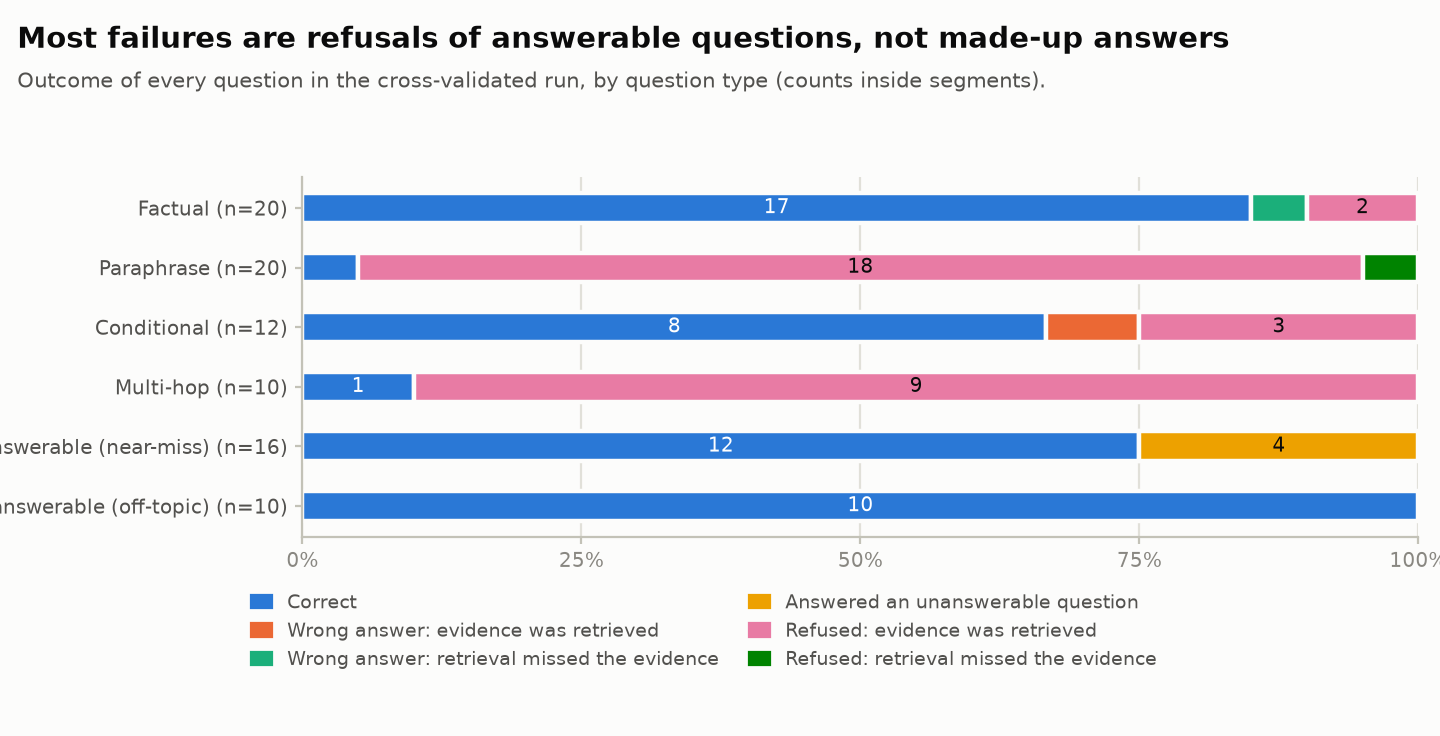
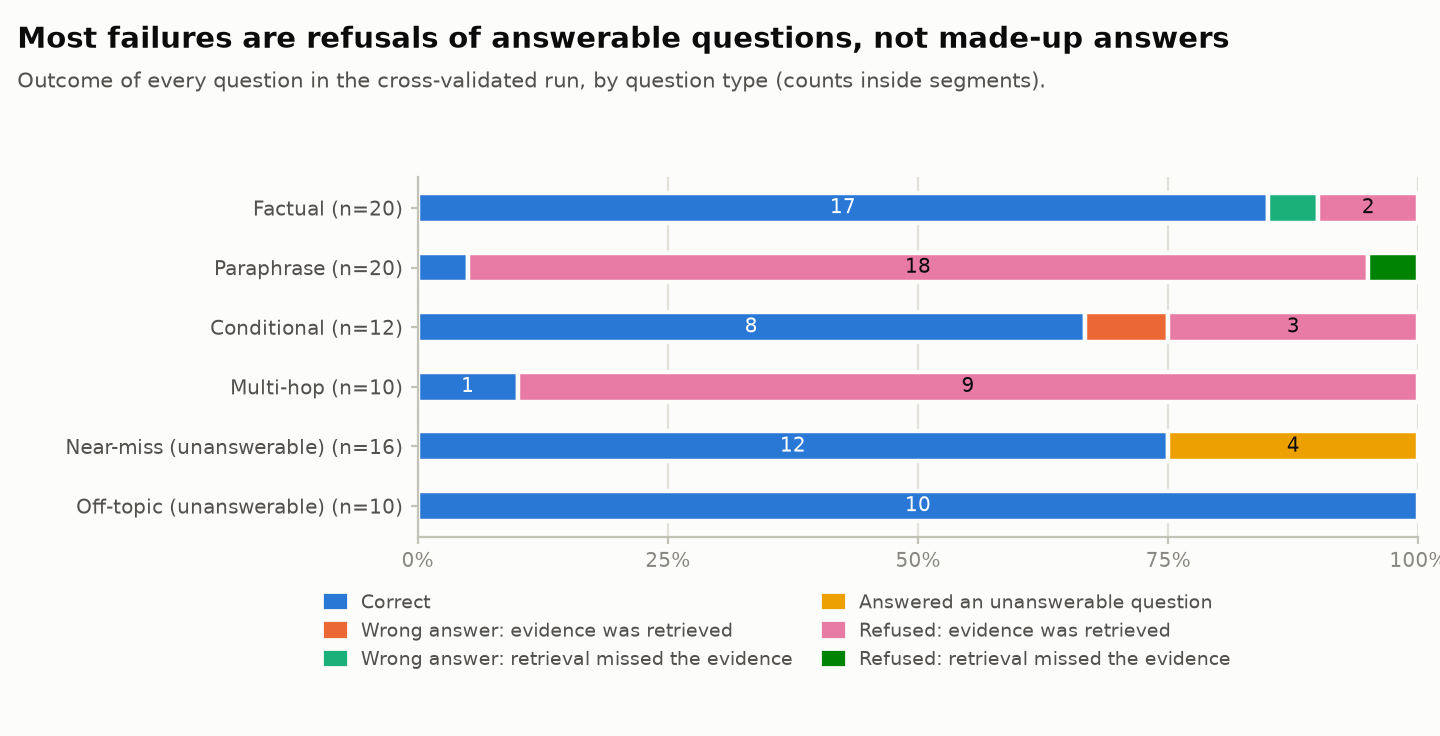
Fix app retriever selection, add screenshots, fill README results
- App: the tuned retriever was missing from the dropdown, so it silently fell back to
  bm25 even when GloVe was available. Offer the evaluated retriever first, and warn when
  it is unavailable. Drop deprecated use_container_width arguments.
- App examples now show a realistic mix: answered, a paraphrase the offline generator
  cannot handle, and correct refusals.
- Re-render report and figures (fixes clipped labels, missing legend, data-driven titles).
- README: results and findings from the cross-validated study; screenshots from a real browser.
- Tests: 108 passing, including the retriever-choice logic and the missing-GloVe warning.

Claude-Session: https://claude.ai/code/session_01NxVMQHfuk1bMqepFosoKAy

diff --git a/RAG_Assistant/app.py b/RAG_Assistant/app.py
@@ -13,16 +13,18 @@ from rag_assistant.embeddings import glove_available
 from rag_assistant.evaluation.support import score_answer
 from rag_assistant.ingest import load_corpus
 from rag_assistant.llm import LLMError, detect_provider, make_llm
+from rag_assistant.retrievers import retriever_choices
 from rag_assistant.pipeline import load_best_config
 from rag_assistant.types import REFUSAL_TEXT
 
 load_env_file()
 st.set_page_config(page_title="Handbook Assistant", page_icon="📘", layout="wide")
 
+# Three the offline generator answers, one paraphrase it cannot (try LLM mode), two it should refuse.
 EXAMPLES = [
     "What is the late payment fee?",
-    "How do I get a refund if I drop a class in week 4?",
-    "Until which week can a graduate student withdraw with a W?",
+    "How much is the housing deposit?",
+    "What is the tuition refund if I withdraw in week 4?",
     "How often must I change my campus network login secret?",
     "Does the Student Health Center offer dental care?",
     "Who won the 2022 FIFA World Cup?",
@@ -42,13 +44,6 @@ def get_pipeline(retriever: str, top_k: int, coverage: float, use_llm: bool) -> 
     return RAGPipeline(corpus(), cfg, make_llm() if use_llm else None)
 
 
-def retriever_options() -> list[str]:
-    opts = ["bm25", "tfidf", "hybrid:bm25+lsa"]
-    if glove_available():
-        opts += ["glove", "hybrid:bm25+glove"]
-    return opts
-
-
 best = load_best_config()
 provider = detect_provider()
 
@@ -62,8 +57,11 @@ with st.sidebar:
         use_llm = False
     elif use_llm:
         st.caption(f"Provider: {provider}")
-    opts = retriever_options()
-    retriever = st.selectbox("Retriever", opts, index=opts.index(best.retriever) if best.retriever in opts else 0)
+    if "glove" in best.retriever and not glove_available():
+        st.warning(f"The tuned retriever `{best.retriever}` needs GloVe vectors, so `bm25` is used instead and answers may differ. "
+                   "Run `python -m rag_assistant fetch-embeddings` to enable it.")
+    opts = retriever_choices(best.retriever, glove_available())
+    retriever = st.selectbox("Retriever", opts, index=0, help="The first option is the one the evaluation report measured.")
     top_k = st.slider("Passages retrieved (top-k)", 1, 10, best.top_k)
     coverage = st.slider("Abstention threshold", 0.0, 1.0, float(best.min_coverage), 0.05, disabled=use_llm,
                          help="Extractive generator only: the share of the question's key terms that must be found before it answers.")
@@ -78,9 +76,11 @@ tab_ask, tab_eval, tab_corpus = st.tabs(["Ask", "How well does it work?", "Corpu
 # ----------------------------------------------------------------------------------- ask
 with tab_ask:
     st.write("**Try an example**")
+    st.caption("The fourth example is worded differently from the handbook: the offline generator refuses it, an LLM should not. "
+               "The last two are unanswerable and should be refused.")
     cols = st.columns(3)
     for i, ex in enumerate(EXAMPLES):
-        if cols[i % 3].button(ex, key=f"ex{i}", use_container_width=True):
+        if cols[i % 3].button(ex, key=f"ex{i}"):
             st.session_state["question"] = ex
     with st.form("ask_form"):
         question = st.text_input("Your question", key="question", placeholder="e.g. How much is the housing deposit?")
@@ -128,7 +128,7 @@ with tab_ask:
             st.dataframe(pd.DataFrame([{
                 "rank": h.rank, "score": round(h.score, 4), "document": h.chunk.doc_title, "section": h.chunk.heading,
                 "cited": "✓" if h.chunk.chunk_id in ans.citations else "", "text": h.chunk.text} for h in ans.contexts]),
-                hide_index=True, use_container_width=True)
+                hide_index=True)
 
 # ----------------------------------------------------------------------------------- evaluation
 with tab_eval:
@@ -161,13 +161,13 @@ with tab_eval:
                               ("abstention_tradeoff.png", "The answer-versus-refuse trade-off"),
                               ("retrieval_by_type.png", "Retrieval quality by question type")):
             if (figs / name).exists():
-                st.image(str(figs / name), caption=caption, use_container_width=True)
+                st.image(str(figs / name), caption=caption)
         csv = REPORT_DIR / "per_question.csv"
         if csv.exists():
             df = pd.read_csv(csv)
             st.subheader("Every question")
             outcome = st.multiselect("Filter by outcome", sorted(df["outcome"].unique()))
-            st.dataframe(df[df["outcome"].isin(outcome)] if outcome else df, hide_index=True, use_container_width=True)
+            st.dataframe(df[df["outcome"].isin(outcome)] if outcome else df, hide_index=True)
         report = REPORT_DIR / "report.md"
         if report.exists():
             with st.expander("Full written report"):

diff --git a/RAG_Assistant/rag_assistant/evaluation/report.py b/RAG_Assistant/rag_assistant/evaluation/report.py
@@ -167,7 +167,7 @@ def fig_tradeoff(study: Study, path: Path) -> None:
     ax.set_ylabel("Share of questions", fontsize=9, color=MUTED)
     handles, labels = ax.get_legend_handles_labels()
     fig.legend(handles, labels, loc="lower center", ncol=2, frameon=False, fontsize=9, labelcolor=INK2, bbox_to_anchor=(0.44, 0.0))
-    _titles(fig, "Refusing more unanswerable questions means refusing more answerable ones",
+    _titles(fig, "Caution is paid for in correct answers",
             "Offline extractive generator, all questions, other settings fixed. There is no free lunch on this curve.")
     _save(fig, path)
 
@@ -307,7 +307,7 @@ def retrieval_sentence(study: Study) -> str:
     b = stat(best)
     return (f"On the {b[2]} paraphrased questions the best embedding hybrid (`{best}`) reaches MRR {b[0]:.2f} vs {base[0]:.2f} for BM25; "
             f"on the other {b[3]} answerable questions BM25 reaches {base[1]:.2f} vs {b[1]:.2f}. "
-            "The gaps are small relative to the sample size, but they point the same way: dense signals help when the words differ and add noise when they match.")
+            "The gaps are small relative to the sample size, but they are consistent with dense signals helping when the words differ and adding noise when they match.")
 
 
 def build_report(study: Study, sections: list[Section], items: list[EvalItem], out_dir: Path, llm_summary: str | None = None) -> Path:

diff --git a/RAG_Assistant/tests/test_retrievers.py b/RAG_Assistant/tests/test_retrievers.py
@@ -68,3 +68,14 @@ def test_dense_retriever_with_stub_embeddings(chunks):
 def test_build_retriever_rejects_unknown_names():
     with pytest.raises(ValueError):
         build_retriever("nonsense")
+
+
+def test_ui_retriever_choices_put_the_evaluated_retriever_first():
+    from rag_assistant.retrievers import retriever_choices
+    tuned = "hybrid:bm25+lsa+glove"
+    with_glove = retriever_choices(tuned, glove_ok=True)
+    assert with_glove[0] == tuned and len(set(with_glove)) == len(with_glove)
+    # without the vectors the tuned retriever is unavailable: fall back to bm25, never offer something unusable
+    no_glove = retriever_choices(tuned, glove_ok=False)
+    assert no_glove[0] == "bm25" and not any("glove" in o for o in no_glove)
+    assert retriever_choices("tfidf", glove_ok=False)[0] == "tfidf"

diff --git a/RAG_Assistant/rag_assistant/retrievers.py b/RAG_Assistant/rag_assistant/retrievers.py
@@ -194,3 +194,14 @@ def build_retriever(spec: str = "hybrid", add_heading: bool = True) -> Retriever
     if spec in table:
         return table[spec](add_heading=add_heading)
     raise ValueError(f"Unknown retriever {spec!r}; choose from {RETRIEVER_NAMES}")
+
+
+def retriever_choices(tuned: str, glove_ok: bool) -> list[str]:
+    """Retrievers a UI can offer. The tuned one (what the evaluation measured) comes first when it is usable."""
+    opts = ["bm25", "tfidf", "hybrid:bm25+lsa"]
+    if glove_ok:
+        opts += ["glove", "hybrid:bm25+glove", "hybrid:bm25+lsa+glove"]
+    if tuned in opts:
+        opts.remove(tuned)
+        opts.insert(0, tuned)
+    return opts

diff --git a/RAG_Assistant/tests/test_app.py b/RAG_Assistant/tests/test_app.py
@@ -50,3 +50,11 @@ def test_choosing_llm_without_a_key_explains_and_falls_back():
     at.radio[0].set_value("LLM").run()
     assert not at.exception
     assert any("No LLM provider is configured" in e.value for e in at.error)
+
+
+def test_missing_tuned_retriever_is_announced_not_silently_replaced(monkeypatch):
+    monkeypatch.setenv("RAG_GLOVE_PATH", "/nonexistent/glove.gz")
+    at = AppTest.from_file(APP, default_timeout=120).run()
+    assert not at.exception
+    assert any("needs GloVe vectors" in w.value for w in at.warning)
+    assert at.sidebar.selectbox[0].value == "bm25"

diff --git a/RAG_Assistant/reports/latest/report.md b/RAG_Assistant/reports/latest/report.md
@@ -24,11 +24,13 @@ Nested 5-fold cross-validation: in each fold the chunking, retriever, top-k and 
 | Citation precision | 0.90 (0.79-0.98) | Cited chunks that really contain the evidence |
 | Token F1 vs reference | 0.59 (0.51-0.68) | Word overlap with the reference answer (answered questions only) |
 
-Latency (median / p95): 2.7 ms / 6.6 ms per question, retrieval and generation included.
+Latency (median / p95): 2.7 ms / 5.5 ms per question, retrieval and generation included.
 
 **How to read this.**
 - Retrieval is strong: the gold evidence is in the top 5 for 98% of answerable questions.
 - The extractive generator is the bottleneck: it gets 44% of answerable questions right and correctly refuses 85% of unanswerable ones.
+- Refusals concentrate where the wording differs from the handbook or an answer needs two passages: paraphrase and multi-hop questions are almost all refused (see the table below). Retrieval found the evidence for nearly all of them, so this is the gap an LLM generator is meant to close, not a retrieval problem.
+- The operating point comes from maximising the balanced score, which weighs refusing correctly as much as answering correctly. If a wrong answer is cheaper than a refusal in your setting, lower the threshold (section 5).
 - Scoring the same configuration on the questions it was tuned on gives balanced score 0.67 vs the honest 0.64: tuning on ~90 questions inflates results by +0.03. That is why the headline is cross-validated.
 - A retriever that returns random chunks scores balanced 0.52: it "wins" abstention only by refusing almost everything, which is why abstention accuracy is never reported alone.
 
@@ -42,8 +44,8 @@ Latency (median / p95): 2.7 ms / 6.6 ms per question, retrieval and generation i
 | Paraphrase | 20 | 1 | 0 | 0 | 0 | 18 | 1 |
 | Conditional | 12 | 8 | 1 | 0 | 0 | 3 | 0 |
 | Multi-hop | 10 | 1 | 0 | 0 | 0 | 9 | 0 |
-| Unanswerable (near-miss) | 16 | 12 | 0 | 0 | 4 | 0 | 0 |
-| Unanswerable (off-topic) | 10 | 10 | 0 | 0 | 0 | 0 | 0 |
+| Near-miss (unanswerable) | 16 | 12 | 0 | 0 | 4 | 0 | 0 |
+| Off-topic (unanswerable) | 10 | 10 | 0 | 0 | 0 | 0 | 0 |
 
 Failure taxonomy: a *retrieval miss* means the gold evidence was not in the passages the generator saw; the other failures happened **with the evidence in hand**, so they are generator faults. Selected failures (most serious first):
 
@@ -66,31 +68,38 @@ Full per-question results: [`per_question.csv`](per_question.csv).
 
 ![Component ladder](figures/component_ladder.png)
 
-| Step | Answer acc. | Abstention acc. | Hallucination rate | Balanced | Change in hallucination rate vs previous step (paired 95% CI) |
-|---|---|---|---|---|---|
-| 1. Naive RAG: fixed 120-word chunks, BM25, top-3, always answers | 0.61 (0.48-0.73) | 0.23 (0.08-0.38) | 0.23 (0.15-0.31) | 0.42 (0.32-0.53) |  |
-| 2. + chunking chosen by the procedure | 0.63 (0.52-0.74) | 0.23 (0.08-0.38) | 0.23 (0.15-0.31) | 0.43 (0.33-0.53) | +0.00 (+0.00 to +0.00) |
-| 3. + retriever and top-k chosen by the procedure | 0.60 (0.47-0.73) | 0.23 (0.08-0.38) | 0.23 (0.15-0.31) | 0.41 (0.31-0.52) | +0.00 (+0.00 to +0.00) |
-| 4. + abstention thresholds tuned | 0.45 (0.32-0.58) | 0.85 (0.69-0.96) | 0.05 (0.01-0.09) | 0.65 (0.55-0.73) | -0.18 (-0.26 to -0.10) |
-| 5. + answer-type gate = final system | 0.44 (0.31-0.56) | 0.85 (0.69-0.96) | 0.05 (0.01-0.09) | 0.64 (0.54-0.73) | +0.00 (+0.00 to +0.00) |
+| Step | Answer acc. | Abstention acc. | Hallucination rate | Balanced | Δ hallucination vs previous step | Δ answer acc. vs previous step |
+|---|---|---|---|---|---|---|
+| 1. Naive RAG: fixed 120-word chunks, BM25, top-3, always answers | 0.61 (0.48-0.73) | 0.23 (0.08-0.38) | 0.23 (0.15-0.31) | 0.42 (0.32-0.53) |  |  |
+| 2. + chunking chosen by the procedure | 0.63 (0.52-0.74) | 0.23 (0.08-0.38) | 0.23 (0.15-0.31) | 0.43 (0.33-0.53) | +0.00 (+0.00 to +0.00) | +0.02 (-0.03 to +0.06) |
+| 3. + retriever and top-k chosen by the procedure | 0.60 (0.47-0.73) | 0.23 (0.08-0.38) | 0.23 (0.15-0.31) | 0.41 (0.31-0.52) | +0.00 (+0.00 to +0.00) | -0.03 (-0.08 to +0.00) |
+| 4. + abstention thresholds tuned | 0.45 (0.32-0.58) | 0.85 (0.69-0.96) | 0.05 (0.01-0.09) | 0.65 (0.55-0.73) | -0.18 (-0.26 to -0.10) | -0.15 (-0.26 to -0.03) |
+| 5. + answer-type gate = final system | 0.44 (0.31-0.56) | 0.85 (0.69-0.96) | 0.05 (0.01-0.09) | 0.64 (0.54-0.73) | +0.00 (+0.00 to +0.00) | -0.02 (-0.05 to +0.00) |
+
+Deltas are paired over the same questions with 95% bootstrap CIs. What they show:
+
+- Step 4 changes hallucination rate -0.18 (paired 95% CI -0.26 to -0.10) and answer accuracy -0.15 (paired 95% CI -0.26 to -0.03).
+- Steps 2, 3, 5 make no statistically detectable difference to hallucination rate or answer accuracy (paired CIs include 0).
 
 ## 4. Retrieval ablation (descriptive, all 62 answerable questions)
 
 ![Retrieval by question type](figures/retrieval_by_type.png)
 
-Best chunking per retriever, sorted by MRR:
+All retrievers at the same chunking (`structure-90w`), sorted by MRR:
 
-| Retriever | Chunking | Hit@1 | Hit@5 | Recall@5 | MRR | nDCG@5 |
-|---|---|---|---|---|---|---|
-| hybrid:bm25+lsa+glove | structure-140w | 0.89 | 0.98 | 0.98 | 0.92 | 0.93 |
-| bm25 | structure-140w | 0.85 | 0.97 | 0.97 | 0.90 | 0.91 |
-| hybrid:bm25+tfidf | structure-140w | 0.85 | 0.97 | 0.97 | 0.90 | 0.91 |
-| hybrid:bm25+lsa | structure-140w | 0.85 | 0.97 | 0.97 | 0.90 | 0.91 |
-| hybrid:bm25+glove | structure-140w | 0.85 | 0.95 | 0.95 | 0.90 | 0.90 |
-| tfidf | fixed-120w + heading | 0.79 | 0.98 | 0.98 | 0.88 | 0.89 |
-| lsa | fixed-120w + heading | 0.79 | 0.98 | 0.98 | 0.88 | 0.89 |
-| glove | structure-140w | 0.68 | 0.94 | 0.91 | 0.78 | 0.79 |
-| random | structure-90w | 0.00 | 0.05 | 0.05 | 0.02 | 0.02 |
+| Retriever | Hit@1 | Hit@5 | Recall@5 | MRR | nDCG@5 |
+|---|---|---|---|---|---|
+| hybrid:bm25+lsa+glove | 0.84 | 0.94 | 0.94 | 0.88 | 0.88 |
+| bm25 | 0.79 | 0.94 | 0.94 | 0.86 | 0.87 |
+| hybrid:bm25+tfidf | 0.79 | 0.94 | 0.94 | 0.86 | 0.87 |
+| hybrid:bm25+lsa | 0.79 | 0.94 | 0.94 | 0.86 | 0.87 |
+| hybrid:bm25+glove | 0.81 | 0.95 | 0.94 | 0.86 | 0.87 |
+| tfidf | 0.77 | 0.94 | 0.93 | 0.85 | 0.86 |
+| lsa | 0.77 | 0.94 | 0.93 | 0.85 | 0.86 |
+| glove | 0.66 | 0.89 | 0.86 | 0.76 | 0.76 |
+| random | 0.00 | 0.05 | 0.05 | 0.02 | 0.02 |
+
+On the 20 paraphrased questions the best embedding hybrid (`hybrid:bm25+glove`) reaches MRR 0.73 vs 0.62 for BM25; on the other 42 answerable questions BM25 reaches 0.98 vs 0.92. The gaps are small relative to the sample size, but they are consistent with dense signals helping when the words differ and adding noise when they match.
 
 Chunking comparison for `hybrid:bm25+lsa+glove`:
 

diff --git a/RAG_Assistant/README.md b/RAG_Assistant/README.md
@@ -12,9 +12,36 @@ It runs **fully offline** (no API key, no model download) and plugs into **Anthr
 
 ![Answer with sources and a live faithfulness check](docs/app_answer.png)
 
+*The web app: an answer, a claim-by-claim faithfulness check, and the cited source. Unanswerable questions are refused (`docs/app_refusal.png`); the second tab shows the evaluation (`docs/app_evaluation.png`).*
+
 ## Results at a glance
 
-<!-- RESULTS -->
+Offline extractive generator (no LLM), **nested 5-fold cross-validation over 88 questions**, 95% bootstrap CIs. Every question is scored by a configuration that never saw it.
+
+| | Value | |
+|---|---|---|
+| Gold evidence in the top 5 (Hit@5) | **0.98** (0.95-1.00) | retrieval is not the bottleneck |
+| Mean reciprocal rank | 0.92 (0.85-0.97) | |
+| Answer accuracy (answerable questions) | **0.44** (0.31-0.56) | the generator is |
+| Refuses correctly (unanswerable questions) | **0.85** (0.69-0.96) | |
+| Hallucination rate (all questions) | **0.05** (0.01-0.09) | vs **0.23** for a naive RAG that always answers |
+| Unfaithful answers | 0.00 | by construction: the offline generator can only quote |
+
+**What the evaluation found** (details, tables and figures in the report):
+
+1. **Retrieval is fine; the generator is the bottleneck.** The evidence is retrieved for 98% of answerable questions, but the offline generator answers
+   only 44%: it refuses 18 of 20 paraphrased and 9 of 10 multi-hop questions even though it holds the evidence. That is the gap an LLM generator exists to close.
+2. **Abstention is the one design decision with a measurable effect.** Adding it cuts the hallucination rate by 0.18 (paired 95% CI -0.26 to -0.10) and
+   costs 0.15 of answer accuracy (-0.26 to -0.03). Chunking, retriever and top-k choices make no statistically detectable difference at this sample size. There is no free lunch: the report plots the whole trade-off curve.
+3. **Embeddings trade off, they do not simply win.** A GloVe hybrid lifts MRR on paraphrased questions (0.62 to 0.73) and lowers it slightly on the rest (0.98 to 0.92).
+4. **Honest evaluation changed the answer.** In an earlier iteration, thresholds tuned on a fixed dev split scored 0.75 balanced on dev and 0.50 on test.
+   That is why the headline is cross-validated.
+5. **The evaluator was checked, too.** The faithfulness scorer is 80% accurate on 30 hand-labelled answers (its known blind spots are listed), and it caught
+   23 of 25 deliberately injected faults with 0 false alarms on untouched answers. Writing the tests exposed two real bugs in the scorer itself
+   (a determiner "No..." treated as a negation, and truncated quotes flagged as unfaithful); both are fixed and covered by tests.
+
+![Where questions succeed and fail](reports/latest/figures/outcomes_by_type.png)
+
 
 Full write-up with every table and figure: [`reports/latest/report.md`](reports/latest/report.md).
 
@@ -57,7 +84,8 @@ streamlit run app.py                                   # the web app
 python -m rag_assistant ask "What is the late payment fee?"
 python -m rag_assistant chat                           # interactive
 python -m rag_assistant eval                           # score the tuned pipeline on the golden set
-python -m rag_assistant study                          # nested CV + ablations + full report (a few minutes)
+python -m rag_assistant study                          # nested CV + ablations + full report (about 10 minutes)
+python -m rag_assistant report                         # re-render the report and figures from the last study, in seconds
 python -m pytest -q                                    # tests
 python -m rag_assistant check-data                     # golden set vs corpus integrity
 ```
